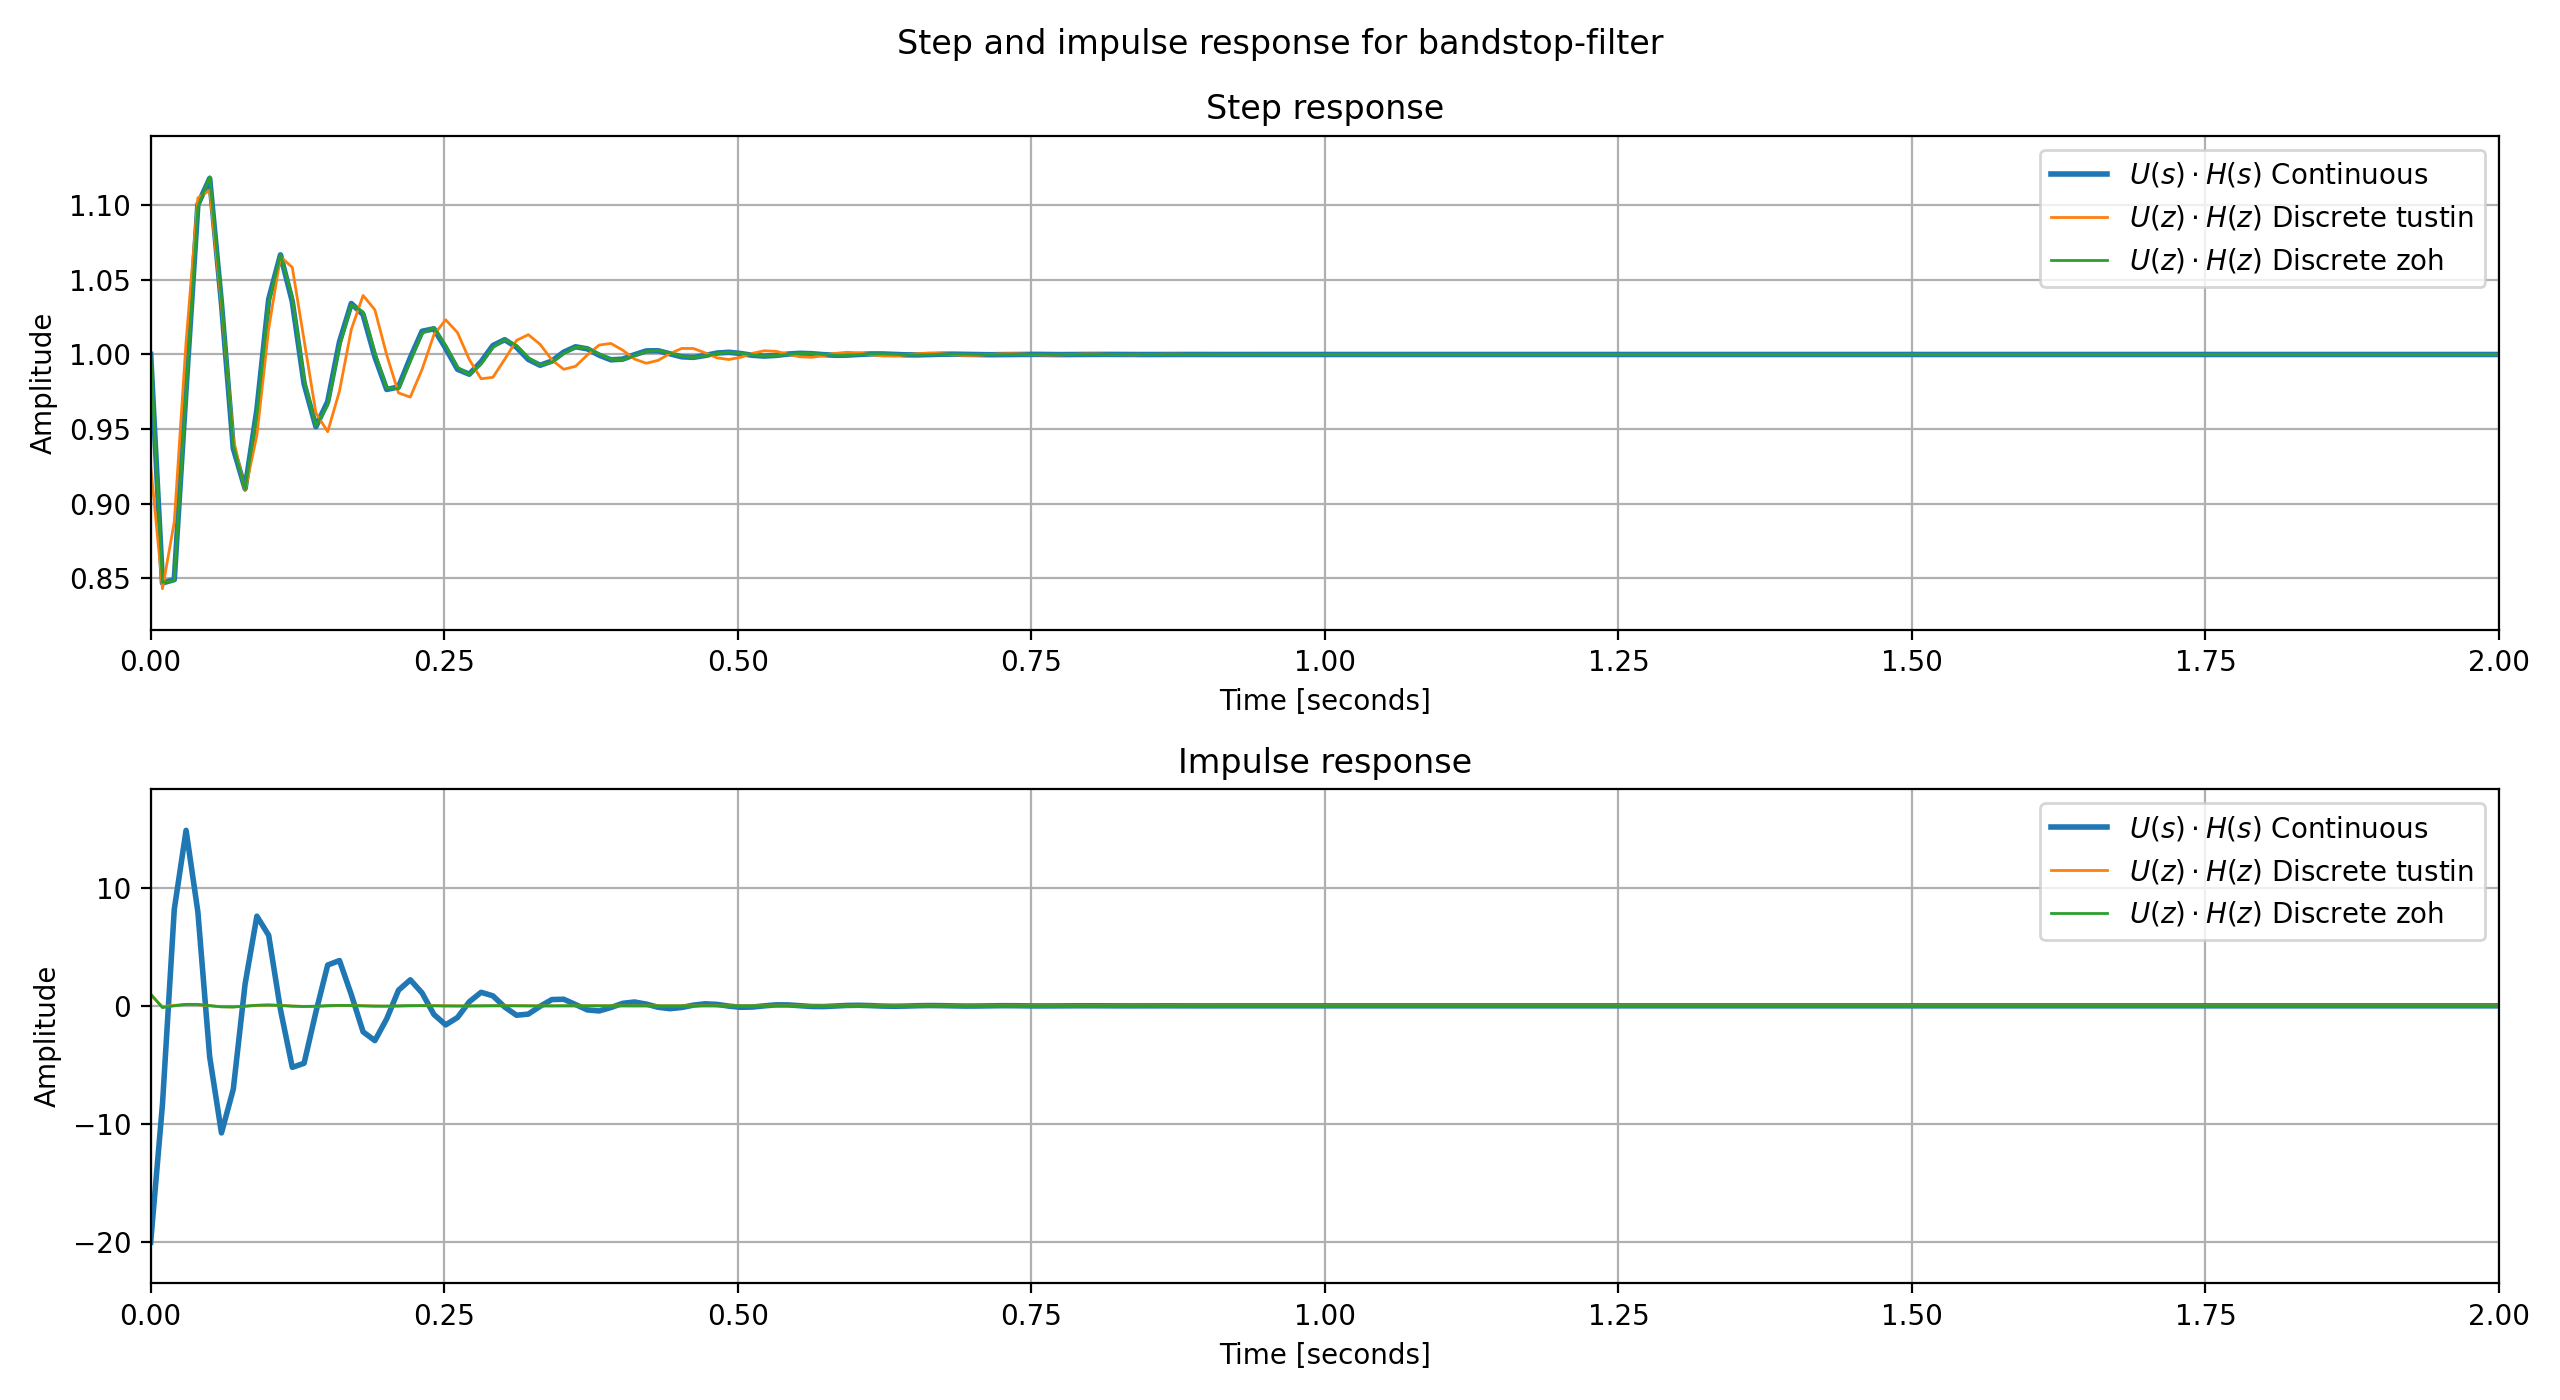
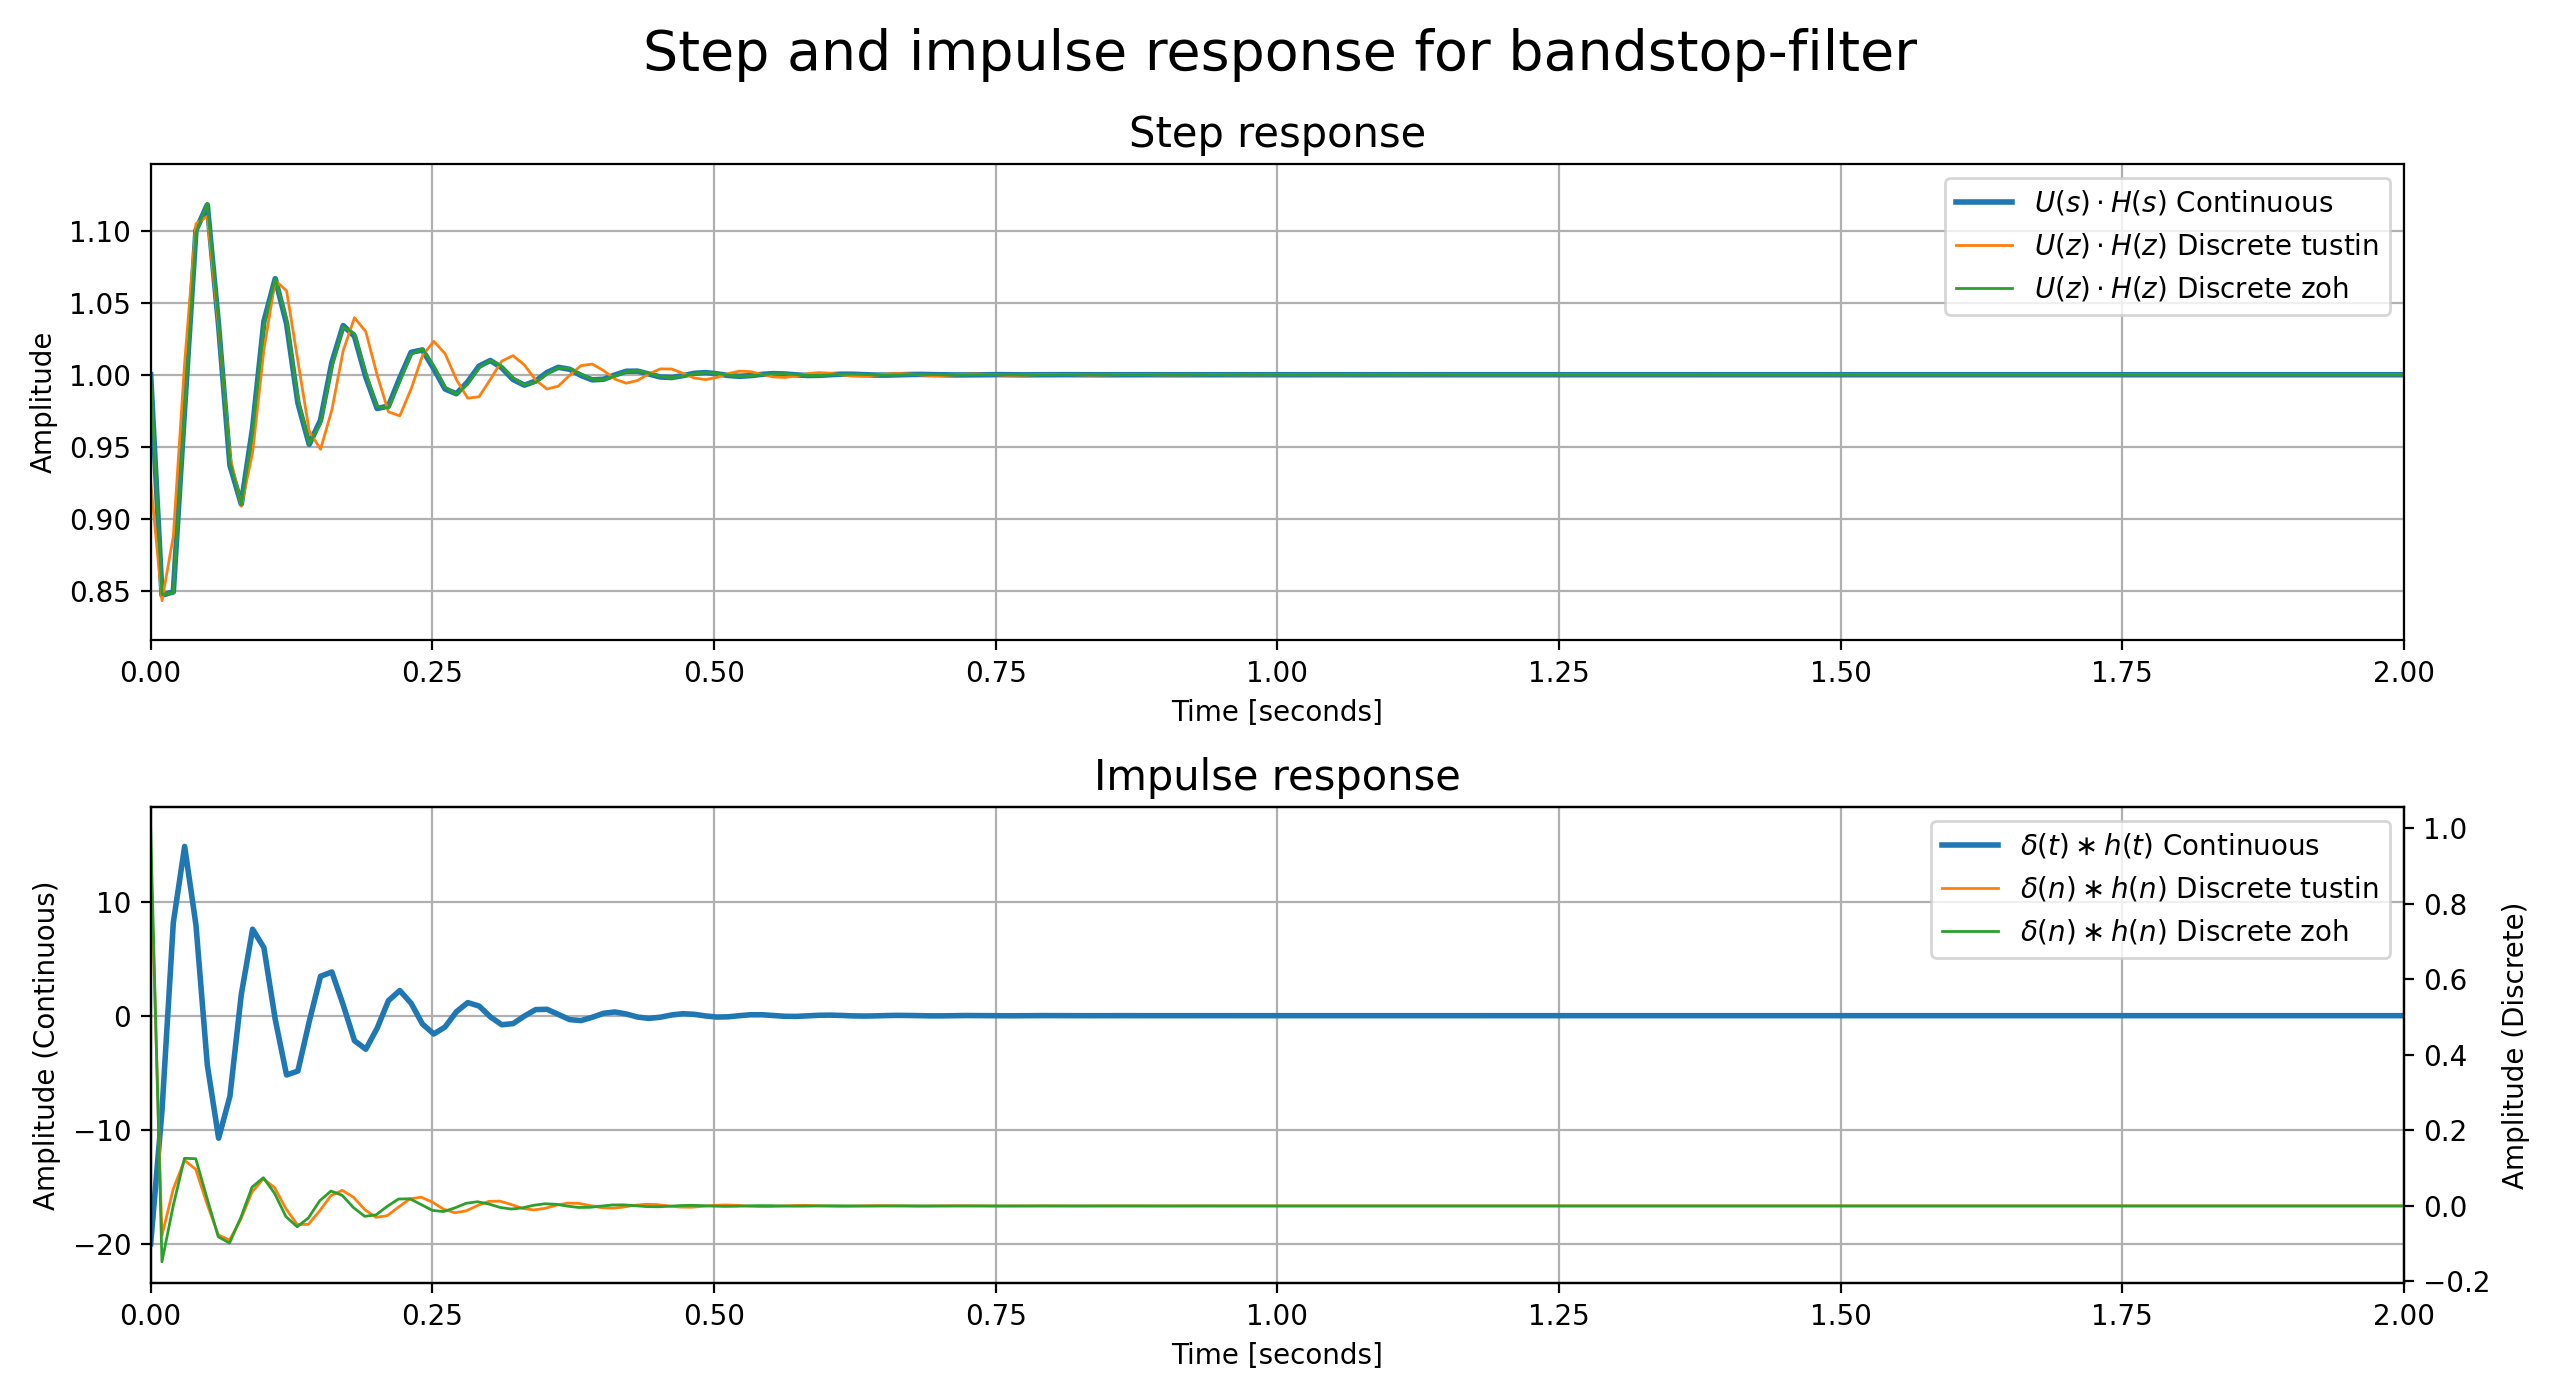
Version 1.2 of the program

diff --git a/main.py b/main.py
@@ -1,7 +1,4 @@
-# This is a sample Python script.
 
-# Press ⌃R to execute it or replace it with your code.
-# Press Double ⇧ to search everywhere for classes, files, tool windows, actions, and settings.
 
 import numpy as np
 import matplotlib.pyplot as plt
@@ -11,34 +8,7 @@ show_figures = False  # Display the figure when the program is run
 save_figures = True  # Save the figures to the same folder as the program
 print_coefficient = True  # Enable the printing of coefficients for the filters
 
-
-def plot_bode(omega, amp, fig_num=None, title=""):
-    plt.close(fig_num)
-    bode = plt.figure(fig_num)
-    bode.suptitle(title)
-
-    # Make the subplot for the amplitude
-    plot_amplitude = bode.add_subplot(211)
-    plot_amplitude.semilogx(omega, 20 * np.log10(abs(amp)))
-    #plot_amplitude.set_xlim(0, 50)
-    #plot_amplitude.set_ylim(-100, 10)
-    # plot_amplitude.xlabel('Frequency [radians / second]')
-    plot_amplitude.set_ylabel('Amplitude [dB]')
-    plot_amplitude.margins(0, 0.1)
-    plot_amplitude.grid(which='both', axis='both')
-    #plot_amplitude.axvline(100, color='green')  # cutoff frequency
-
-    # Make the subplot for the phase response
-    phase = bode.add_subplot(212, sharex=plot_amplitude)
-    phase.semilogx(omega, np.angle(amp))
-    # phase.title('Butterworth filter frequency response')
-    phase.set_xlabel('Frequency [radians / second]')
-    phase.set_ylabel('Phase [radians]')
-    phase.margins(0, 0.1)
-    phase.grid(which='both', axis='both')
-    #phase.axvline(100, color='green')  # cutoff frequency
-    bode.show()
-
+## Func
 
 def compare2disc(analog_filter, ts=0.1, title="", fig_num=[None, None], step_time=[0, 10]):
     #ts = 1/100
@@ -74,7 +44,7 @@ def compare2disc(analog_filter, ts=0.1, title="", fig_num=[None, None], step_tim
     #w_z_zoh, h_z_zoh = sig.freqz([0.00995], [1, -0.99], fs=100, worN=5000)
     #plt.close(fig_num)
     plot_bode = plt.figure(dpi=200, figsize=(12.8, 7), num=fig_num[0])
-    plot_bode.suptitle("Bodeplot "+ title)
+    plot_bode.suptitle("Bodeplot " + title, fontsize=20)
 
     # Make the subplot for the amplitude
     plot_amplitude = plot_bode.add_subplot(211)
@@ -86,7 +56,7 @@ def compare2disc(analog_filter, ts=0.1, title="", fig_num=[None, None], step_tim
     plot_amplitude.set_xlim(0.01, 400)
     plot_amplitude.set_ylim(-80, 5)
     # plot_amplitude.xlabel('Frequency [radians / second]')
-    plot_amplitude.set_ylabel('Amplitude [dB]')
+    plot_amplitude.set_ylabel('Amplitude [dB]', fontsize=10)
     plot_amplitude.margins(0, 0.1)
     plot_amplitude.grid(which='both', axis='both')
     #plot_amplitude.axvline(100, color='green')  # cutoff frequency
@@ -100,8 +70,8 @@ def compare2disc(analog_filter, ts=0.1, title="", fig_num=[None, None], step_tim
     plot_phase.legend()
     # plot_phase.set_ylim(-np.pi, np.pi)
     # phase.title('Butterworth filter frequency response')
-    plot_phase.set_xlabel('Frequency [radians / second]')
-    plot_phase.set_ylabel('Phase [radians]')
+    plot_phase.set_xlabel('Frequency [radians / second]', fontsize=10)
+    plot_phase.set_ylabel('Phase [radians]', fontsize=10)
     plot_phase.margins(0, 0.1)
     plot_phase.grid(which='both', axis='both')
     #phase.axvline(100, color='green')  # cutoff frequency
@@ -128,11 +98,11 @@ def compare2disc(analog_filter, ts=0.1, title="", fig_num=[None, None], step_tim
     h_t_cont = sig.impulse(analog_filter, T=t)
 
     plot_step = plt.figure(dpi=200, figsize=(12.8, 7), num=fig_num[1])
-    plot_step.suptitle("Step and impulse response for " + title)
+    plot_step.suptitle("Step and impulse response for " + title, fontsize=20)
 
     # Make the subplot for the stepresponse
     ax1_step = plot_step.add_subplot(211)
-    ax1_step.set_title("Step response")
+    ax1_step.set_title("Step response", fontsize=15)
     ax1_step.plot(s_t_cont[0], s_t_cont[1], "C0", alpha=1, label=r'$ U(s)\cdot H(s) $ Continuous', linewidth=2)
     ax1_step.plot(t, s_n_tustin, "C1", alpha=1, label=r'$U(z)\cdot H(z) $ Discrete tustin', linewidth=1)
     ax1_step.plot(t, s_n_zoh, "C2", alpha=1, label=r'$ U(z)\cdot H(z)$ Discrete zoh', linewidth=1)
@@ -141,25 +111,30 @@ def compare2disc(analog_filter, ts=0.1, title="", fig_num=[None, None], step_tim
     ax1_step.legend()
     #ax1_step.set_xlim(0.01, 400)
     #ax1_step.set_ylim(-80, 5)
-    ax1_step.set_xlabel('Time [seconds]')
-    ax1_step.set_ylabel('Amplitude')
+    ax1_step.set_xlabel('Time [seconds]', fontsize=10)
+    ax1_step.set_ylabel('Amplitude', fontsize=10)
     ax1_step.margins(0, 0.1)
     ax1_step.grid(which='both', axis='both')
 
 
     # Make the subplot for the impulse response
     ax1_impulse = plot_step.add_subplot(212, sharex=ax1_step)
-    ax1_impulse.set_title("Impulse response")
-    ax1_impulse.plot(h_t_cont[0], h_t_cont[1], "C0", alpha=1, label=r'$ U(s)\cdot H(s) $ Continuous', linewidth=2)
-    ax1_impulse.plot(h_n_tustin[0], h_n_tustin[1][0], "C1", alpha=1, label=r'$U(z)\cdot H(z) $ Discrete tustin', linewidth=1)
-    ax1_impulse.plot(h_n_zoh[0], h_n_zoh[1][0], "C2", alpha=1, label=r'$ U(z)\cdot H(z)$ Discrete zoh', linewidth=1)
+    ax2_impulse = ax1_impulse.twinx()
+    ax1_impulse.set_title("Impulse response", fontsize=15)
+    p_ht, = ax1_impulse.plot(h_t_cont[0], h_t_cont[1], "C0", alpha=1,
+                             label=r'$ \delta(t)\ast h(t) $ Continuous', linewidth=2)
+    p_hn_tustin, = ax2_impulse.plot(h_n_tustin[0], h_n_tustin[1][0], "C1", alpha=1,
+                                    label=r'$\delta(n)\ast h(n) $ Discrete tustin', linewidth=1)
+    p_hn_zoh, = ax2_impulse.plot(h_n_zoh[0], h_n_zoh[1][0], "C2", alpha=1,
+                                 label=r'$ \delta(n)\ast h(n)$ Discrete zoh', linewidth=1)
 
     #ax1_impulse.axvline(1 / ts * np.pi, color='red', ls=":")  # cutoff frequency
-    ax1_impulse.legend()
+    ax1_impulse.legend([p_ht, p_hn_tustin, p_hn_zoh], [p_ht._label, p_hn_tustin._label, p_hn_zoh._label])
     #ax1_impulse.set_xlim(0.01, 400)
     #ax1_impulse.set_ylim(-80, 5)
-    ax1_impulse.set_xlabel('Time [seconds]')
-    ax1_impulse.set_ylabel('Amplitude')
+    ax1_impulse.set_xlabel('Time [seconds]', fontsize=10)
+    ax1_impulse.set_ylabel('Amplitude (Continuous)', fontsize=10)
+    ax2_impulse.set_ylabel('Amplitude (Discrete)', fontsize=10)
     ax1_impulse.margins(0, 0.1)
     ax1_impulse.grid(which='both', axis='both')
 
@@ -190,6 +165,9 @@ if __name__ == '__main__':
                                                 fig_num=[5, 6], step_time=[0, 2])
     bode_elliptic, step_elliptic = compare2disc(elliptic, ts=0.01, title="elliptic-filter",
                                                 fig_num=[7, 8], step_time=[0, 10])
+    # Legg til 2 akser på impuls respons
+    # Fikse bilde dimensjonene
+    # Legge til pi på y-akse
 
     # Display the figures if enabled
     if show_figures:

diff --git a/zoh_fig.py b/zoh_fig.py
@@ -7,9 +7,34 @@ t_cont = np.linspace(0, 1, 10000)
 
 f_t = sig.step(lp_filter, T=t_cont)
 
-x_n = f_t[0]
+x_n = np.zeros(11)
+t = np.zeros(11)
+
+for x in np.arange(x_n.size-1):
+    x_n[x] = f_t[1][x*1000]
+    t[x] = f_t[0][x*1000]
+t[-1] = 1
+x_n[-1] = f_t[1][-1]
+
+x_2 = x_n[0:-1]
+t_2 = t[1:]
+
+t_2 = t_2*10
+f_t = f_t
+t = t *10
+#x_n = (f_t[1][0], f_t[1][1000], f_t[1][2000], f_t[1][3000], f_t[1][4000], f_t[1][5000], f_t[1][6000, f_t[1][7000], f_t[1][8000], f_t[1][9000], f_t[1][10000])
+
+print(x_n[:-1])
 
 plt.figure()
-plt.plot(f_t[0], f_t[1])
-
+plt.title("Zero-order hold")
+plt.plot(f_t[0]*10, f_t[1], label="$E_k(t)$")
+plt.stem(t, x_n, "r--", markerfmt="kx", basefmt="k", label="sample point")
+#plt.vlines(t_2,  x_2, x_n[:-1])
+#plt.stem(t_2, x_2, "r")
+plt.hlines(x_n[:-1], t[:-1], t_2, "k", linestyles="dotted", label=r"$E_k[k]$ (zoh)")
+plt.xlabel("Time index [k]")
+plt.ylabel("Amplitude")
+plt.legend()
+plt.savefig("zoh_fig")
 plt.show()
